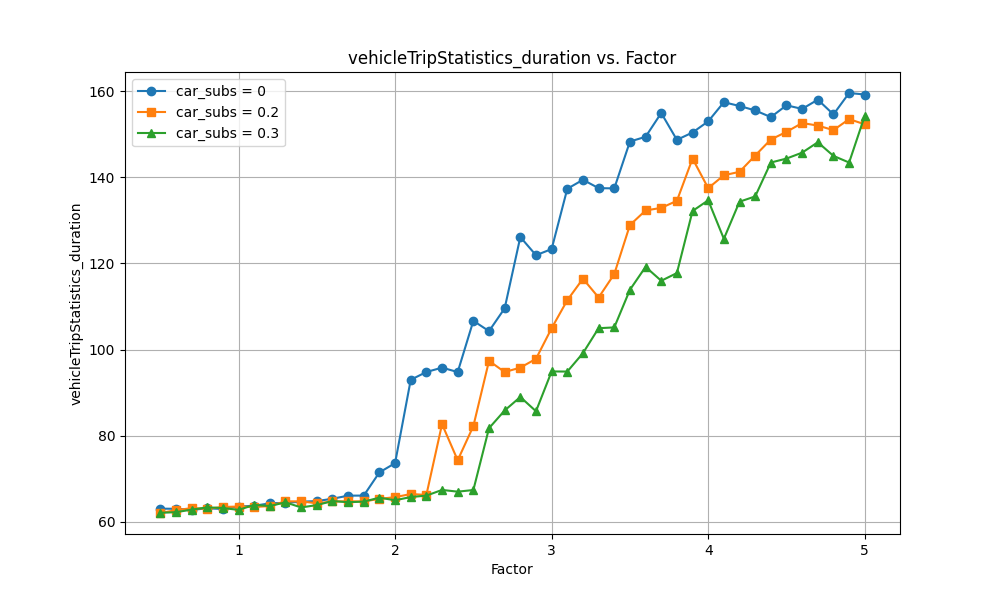
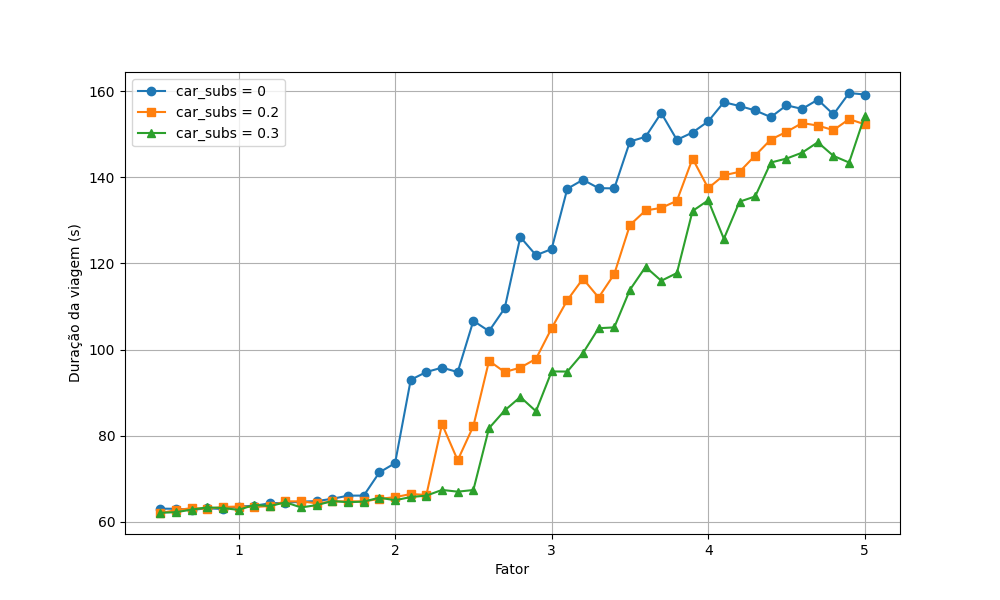
fix: editado imagens

Changed region(s): [[0.341, 0.09, 0.682, 0.12], [0.062, 0.36, 0.093, 0.66], [0.496, 0.93, 0.527, 0.96]]

diff --git a/plot_csv.py b/plot_csv.py
@@ -31,10 +31,20 @@ def plot_comparison(data_a, data_b, data_c, metrics, output_dir='imagens'):
         factors_c = [float(item['factor']) for item in data_c]
         values_c = [float(item[metric]) for item in data_c]
         plt.plot(factors_c, values_c, marker='^', linestyle='-', label='car_subs = 0.3')
-
-        plt.xlabel('Factor')
-        plt.ylabel(metric)
-        plt.title(f'{metric} vs. Factor')
+        
+        plt.xlabel('Fator')
+        if metric == 'vehicleTripStatistics_duration':
+            plt.ylabel("Duração da viagem (s)")
+        elif metric == 'vehicles_inserted':
+            plt.ylabel("Veículos inseridos")
+        elif metric == 'vehicleTripStatistics_speed':
+            plt.ylabel("Velocidade média (m/s)")
+        elif metric == 'vehicleTripStatistics_timeLoss':
+            plt.ylabel("Tempo abaixo da velocidade ideal (s)")
+        else:
+            plt.ylabel(metric)
+        
+        # plt.title(f'{metric} vs. Factor')
         plt.legend()
         plt.grid(True)
         
